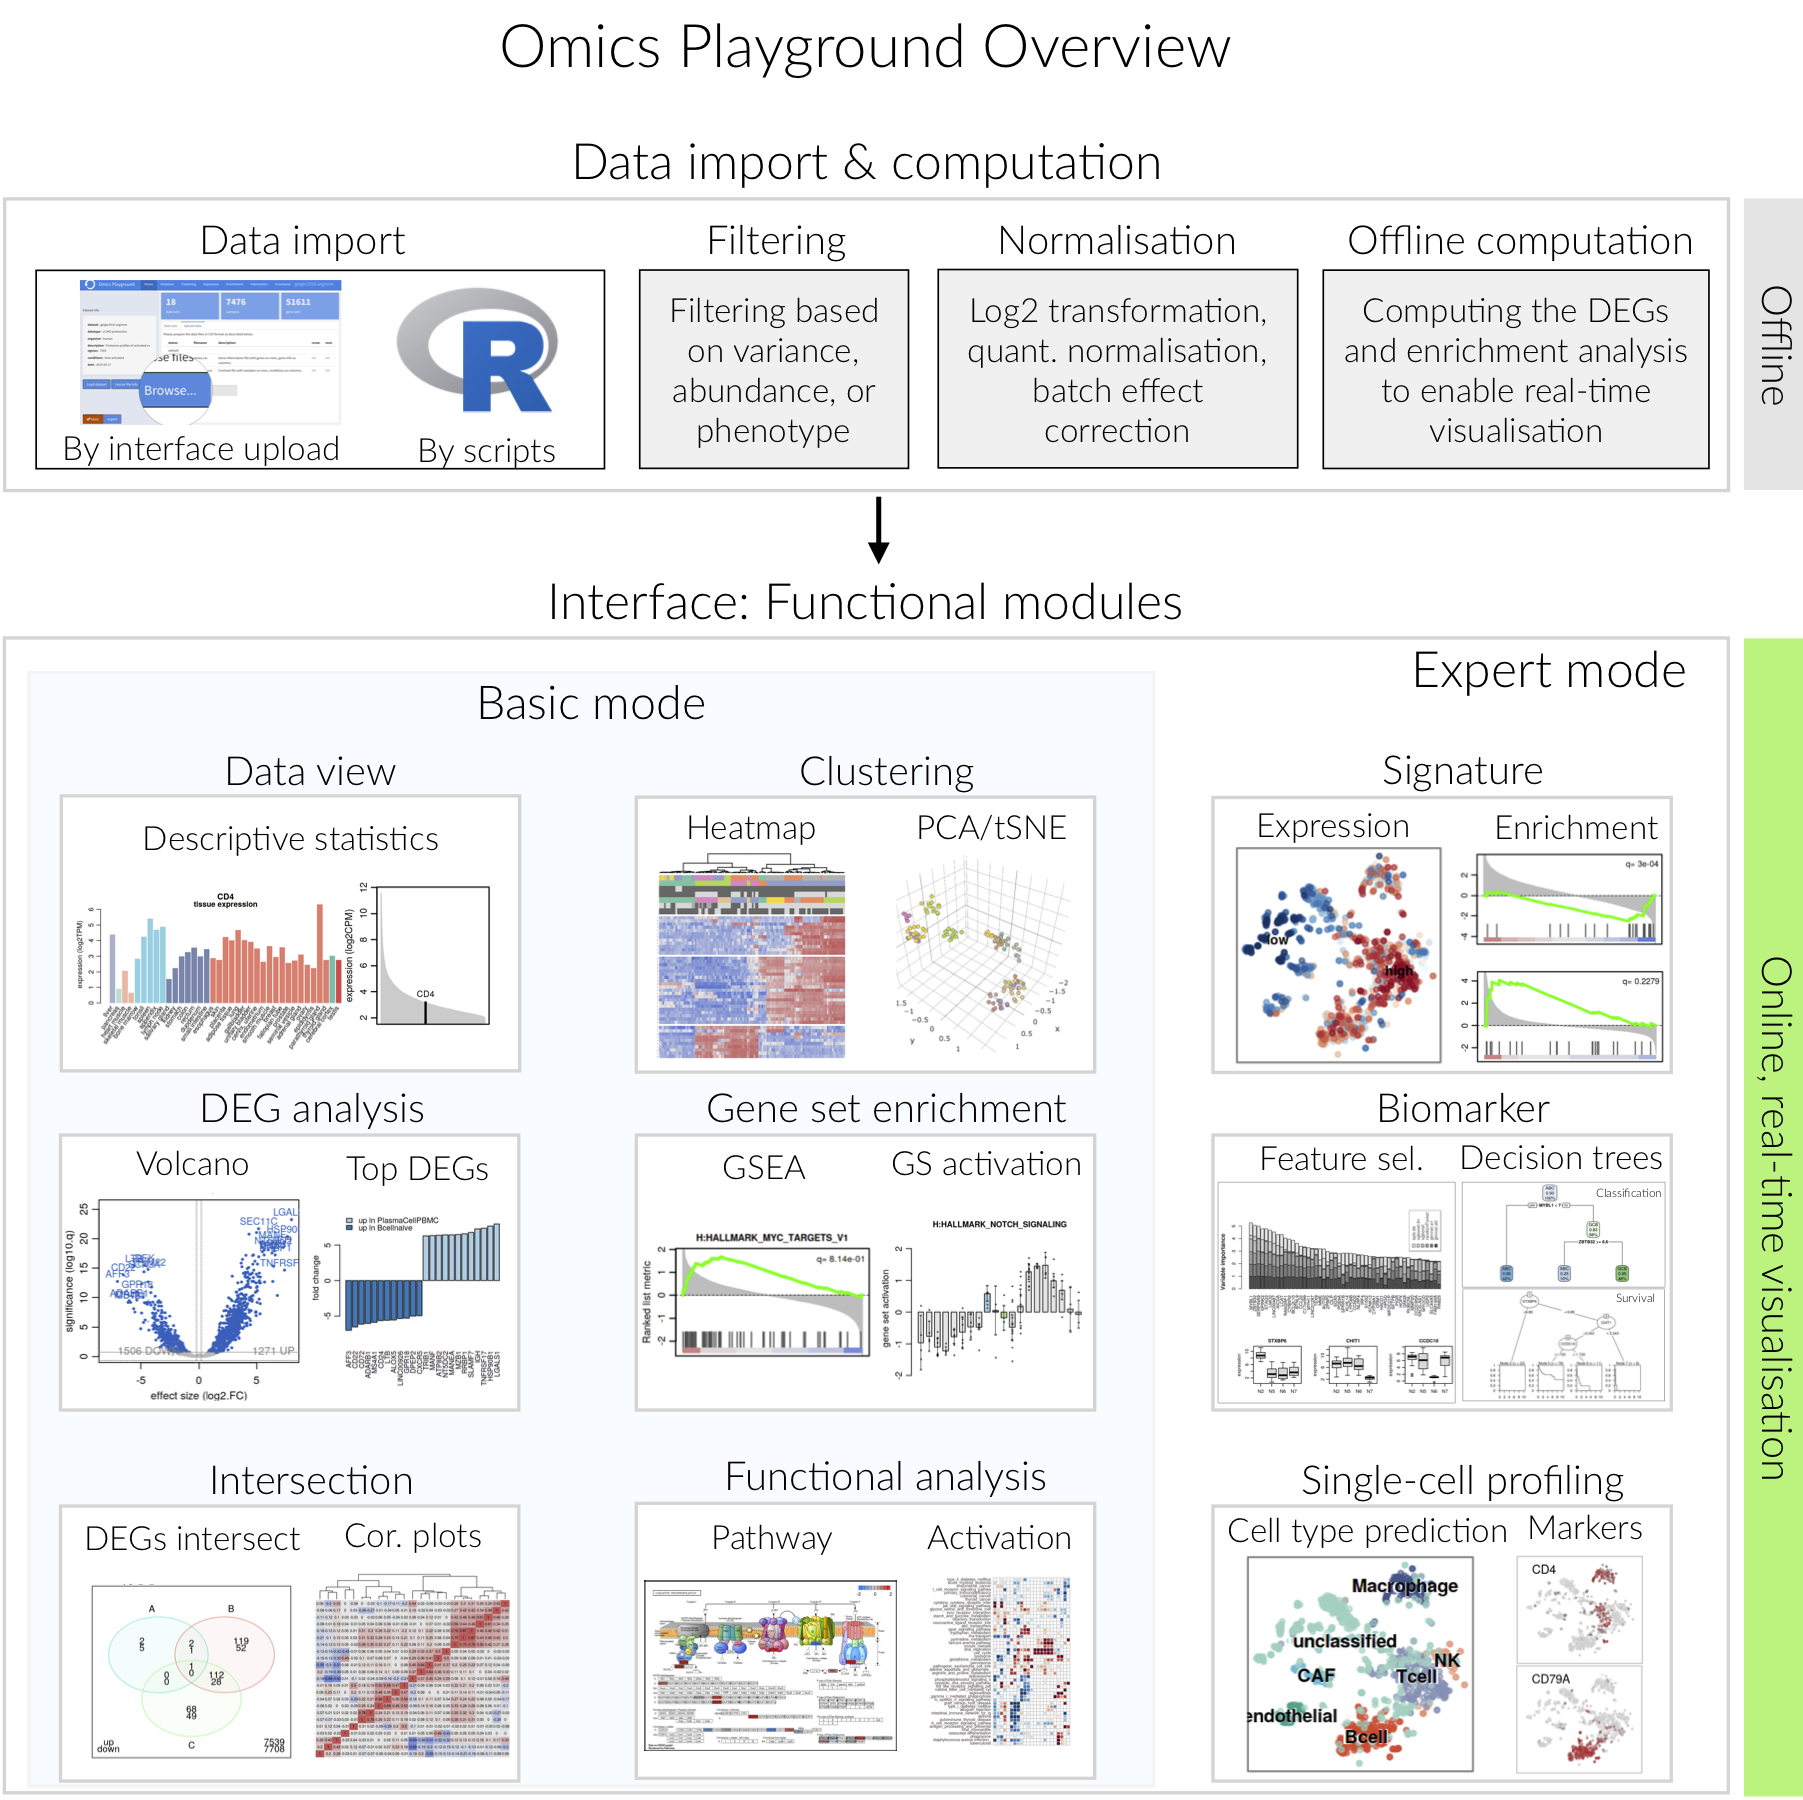
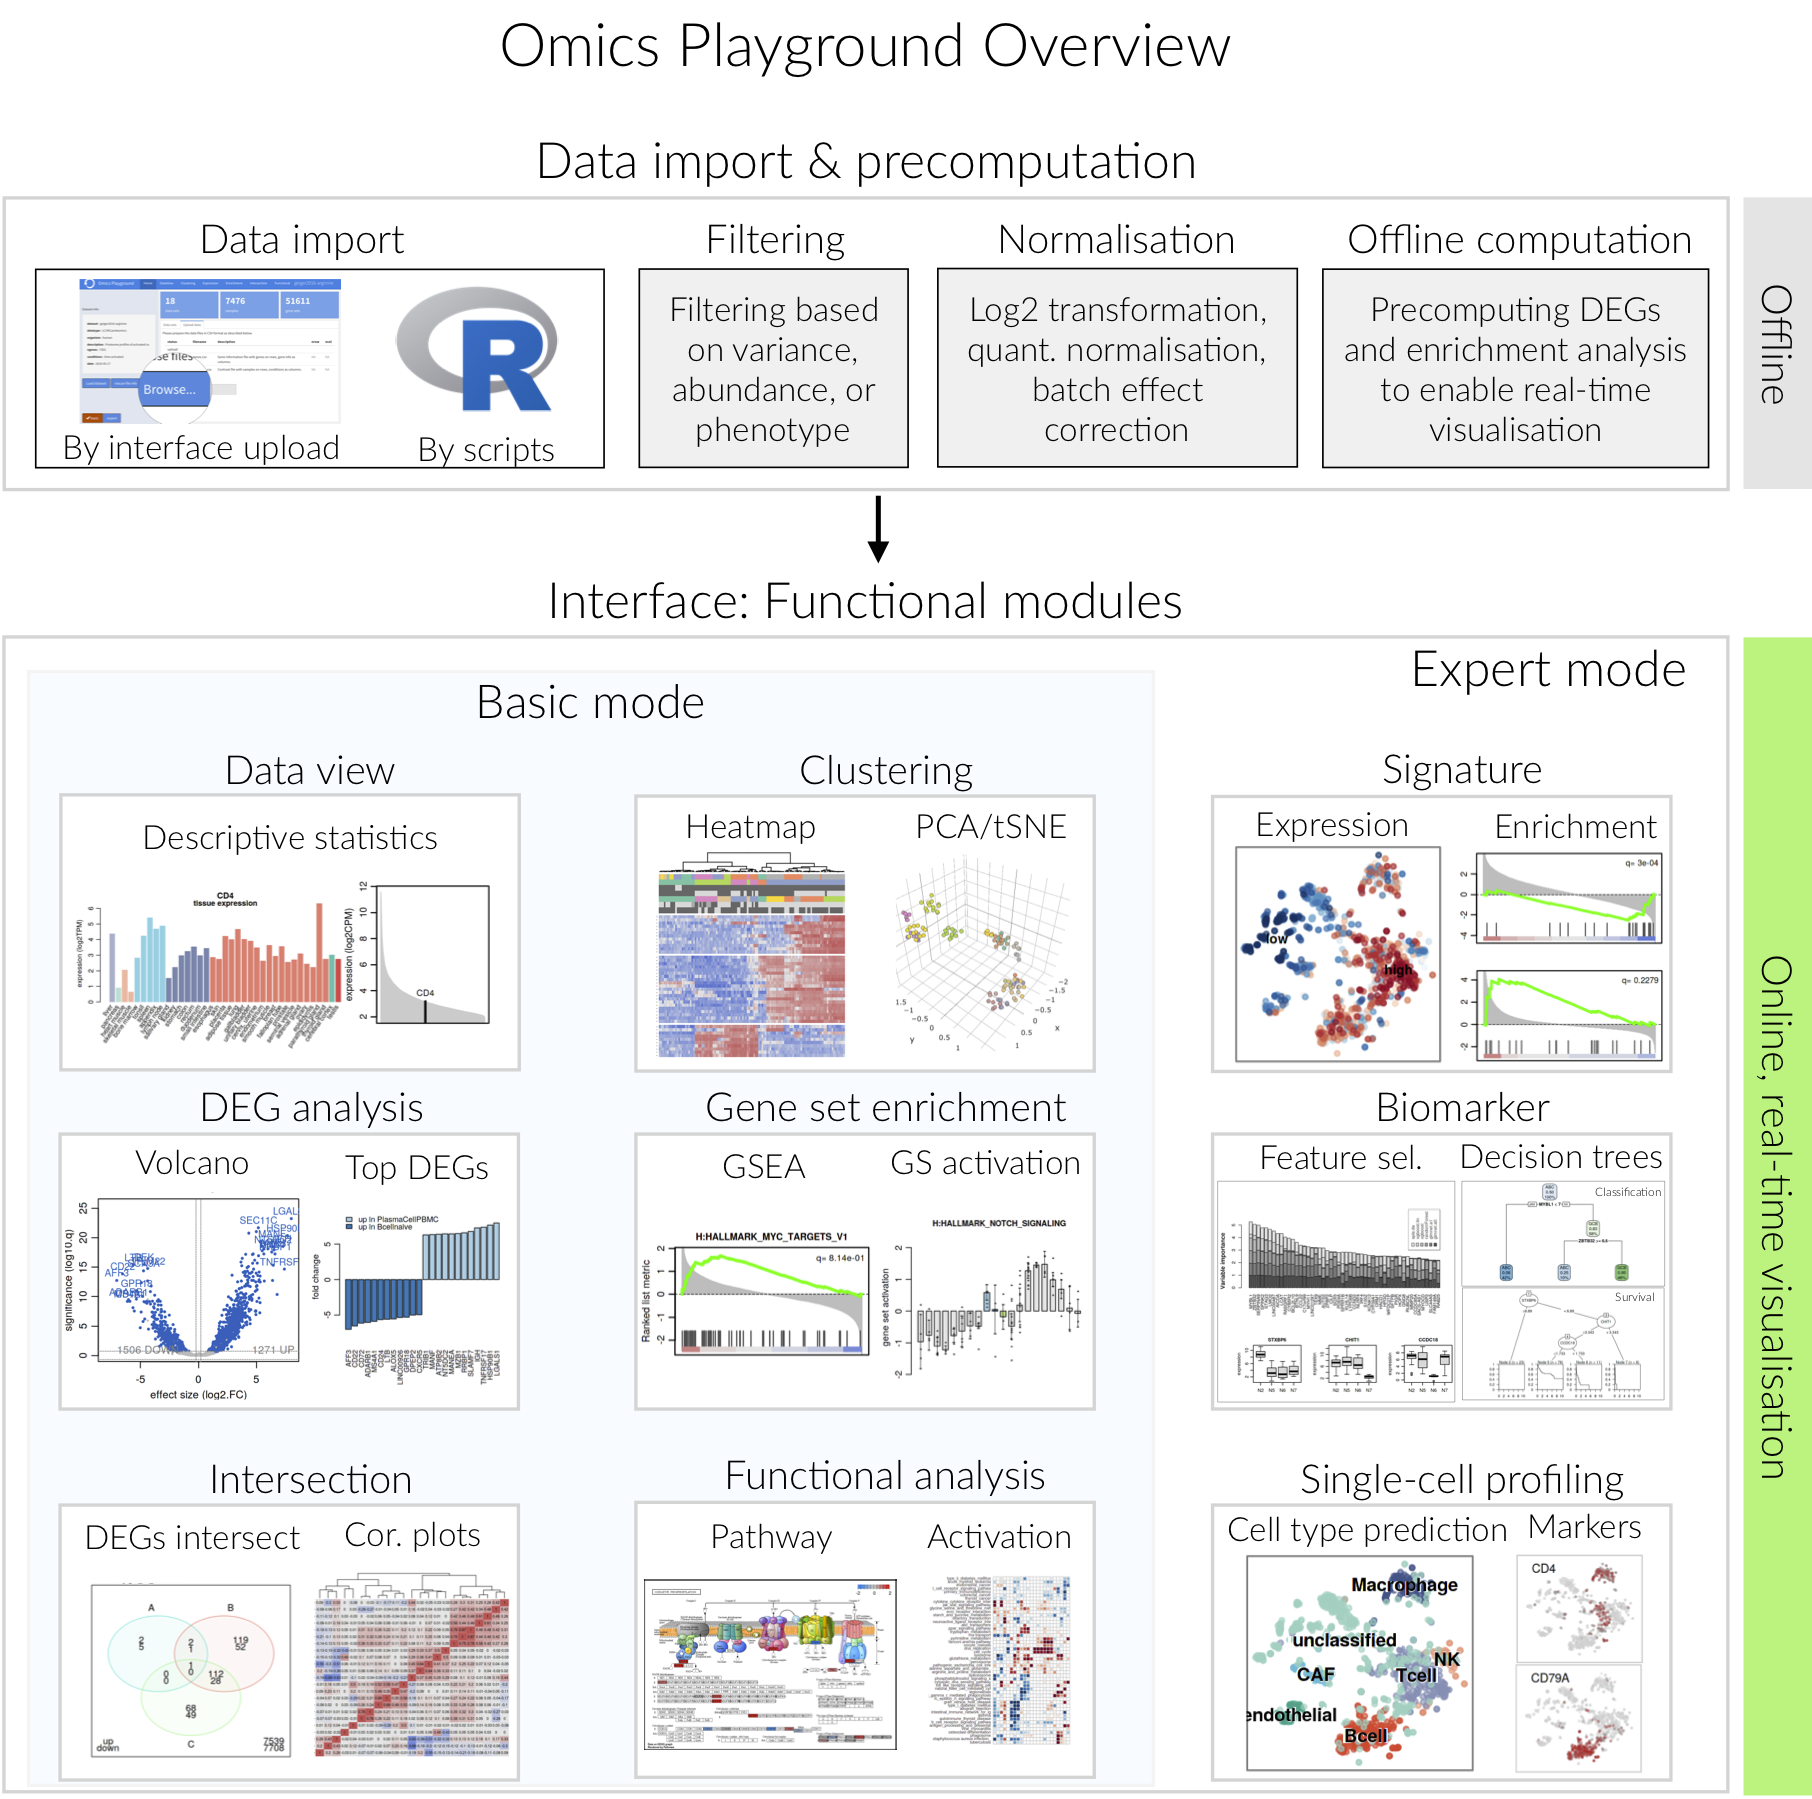
update

diff --git a/docs/dataprep/dataprep.rst b/docs/dataprep/dataprep.rst
@@ -1,15 +1,16 @@
 .. _Dataprep:
 
-Data cleaning and preprocessing
+Data import and precomputation
 ================================================================================
 
-The data cleaning and preprocessing includes preparing the input data, filtering, 
-normalising, and precomputing statistics for some analyses. The data cleaning and 
-preprocessing is performed offline using scripts in order to support real-time 
-interaction and minimize user interface latency.
+The data import and precomputation involves preparing the input data through 
+filtering, normalising and precomputing statistics for some analyses and 
+importing it into the platform. The data cleaning and precomputation is 
+performed offline to support real-time interaction by minimizing user interface
+latency.
 
     
-Input data
+Data import
 --------------------------------------------------------------------------------
 The platform requires the transcriptomics and proteomics data to be in a 
 structured format as an input. Users can prepare an input data from
@@ -19,6 +20,22 @@ Similarly, they can also prepare an input from LC-MS/MS proteomics data.
 For all of these cases, the platform comes with the necessary scripts for data 
 cleaning and preprocessing under the ``/scripts`` folder.
 
+Users can import their data to the platform by either uploading under the 
+:ref:`Home` module of the interface or preparing an input object using scripts.
+To upload, the platform requires the tables of counts, samples info, genes info
+and contrasts in CSV format. Users can provide their own counts or download the
+relevant data from repositories such as `GEO <https://www.ncbi.nlm.nih.gov/geo/>`__. 
+On the other hand, an input object can be prepared with more detailed data 
+cleaning, filtering, normalisation and preprocessing using scripts. 
+The platform contains the required scripts and examples.
+
+.. seealso::
+
+    See :ref:`data preparation examples <Dataprep_example>` how
+    to prepare an input data for the platform. You can find more detailed 
+    information regarding the filtering and normalisation methods for preparing
+    an input from different sources of experiments.
+    
 
 Filtering
 ~~~~~~~~~~~~~~~~~~~~~~~~~~~~~~~~~~~~~~~~~~~~~~~~~~~~~~~~~~~~~~~~~~~~~~~~~~~~~~~~
@@ -43,12 +60,6 @@ Statistics for the differentially expressed genes analysis and gene set enrichme
 analysis are precomputed to accelerate the visualisation on the interface.
 
 
-.. seealso::
-
-    See :ref:`data preparation examples <Dataprep_example>` how
-    to prepare an input data for the platform. You can find more detailed 
-    information regarding the filtering and normalisation methods for preparing
-    an input from different sources of experiments.
 
 
 

diff --git a/docs/dataprep/dataprep_example.rst b/docs/dataprep/dataprep_example.rst
@@ -2,7 +2,49 @@
 
 Data preparation examples
 ================================================================================
+The platform requires the transcriptomics and proteomics data to be in a 
+structured format as an input. Users can import their data to the platform by
+either `uploading through the interface`_ or 
+`preparing an input object using scripts`_.
 
+
+Data upload through the interface
+--------------------------------------------------------------------------------
+
+.. _`uploading through the interface`:
+
+Users can import their data from the **Upload data** panel located under the 
+:ref:`Home` module. The platform requires the list of files in CSV format as 
+listed below. 
+It is important to name the files exactly as shown. 
+The file format must be comma-separated-values (CSV) text. 
+Be sure the dimensions, rownames and column names match for all files. 
+On the left, provide a unique name and description for the data set.
+
+:**counts.csv**: 	  Count/expression file with gene on rows, samples as columns.
+:**samples.csv**: 	Samples file with samples on rows, phenotypes as columns.
+:**genes.csv**: 	  Gene information file with genes on rows, gene info as columns.
+:**contrasts.csv**: Contrast file with samples on rows, conditions as columns.
+
+.. figure:: modules/figures/psc1.3.png
+    :align: center
+    :width: 100%
+
+Users can provide their own counts or download the relevant data
+from repositories such as `GEO <https://www.ncbi.nlm.nih.gov/geo/>`__.
+
+
+Preparing an input object using scripts
+--------------------------------------------------------------------------------
+
+.. _`preparing an input object using scripts`:
+
+On the other hand, an input object can be prepared with more detailed data 
+cleaning, filtering, normalisation and preprocessing using scripts. 
+Users can prepare an input data from
+their own FASTQ files, gene counts tables, or from a dataset of interest stored 
+in public repositories such as `GEO <https://www.ncbi.nlm.nih.gov/geo/>`__.
+Similarly, they can also prepare an input from LC-MS/MS proteomics data.
 We provide four types of example cases to guide users for preparing their input 
 data and injecting it into the platform. Basically, the example cases 
 illustriate how to prepare an input data:
